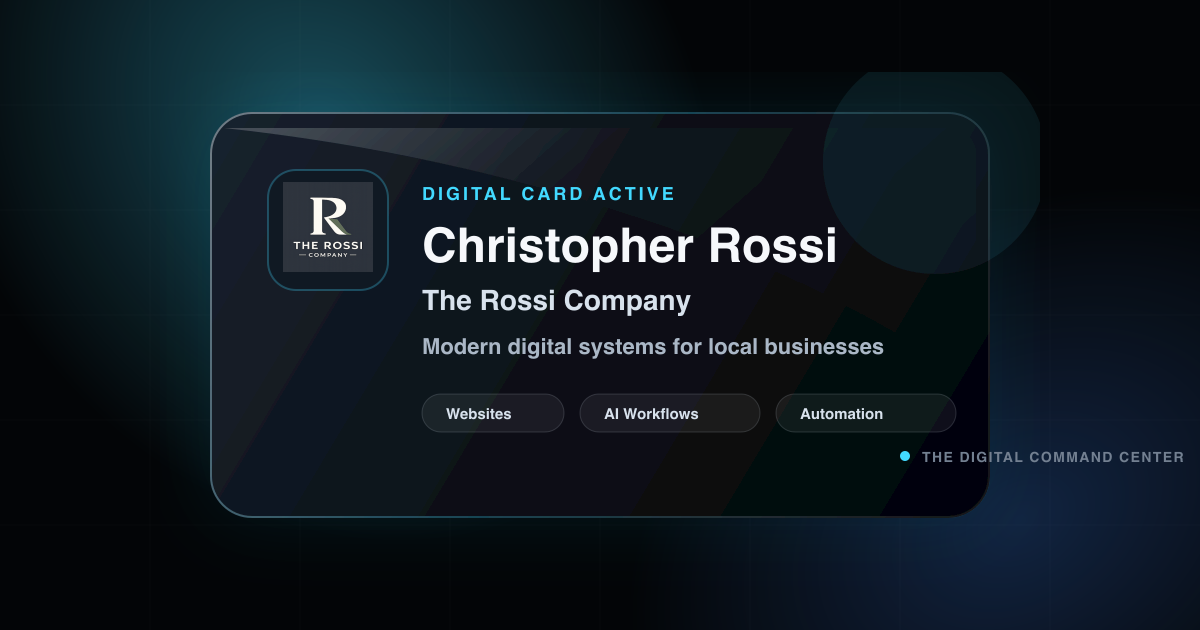
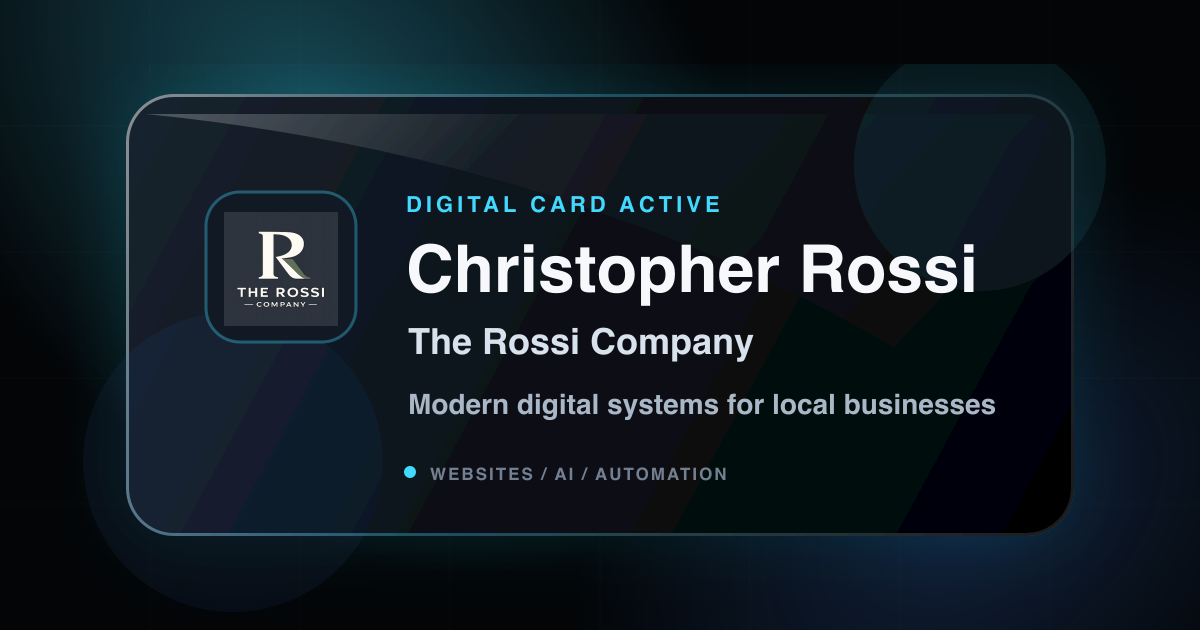
Optimize digital card social preview

Changed region(s): [[0.0925, 0.1206, 0.925, 0.573], [0.0925, 0.5127, 0.9867, 0.8746], [0.3392, 0.7238, 0.6167, 0.7841]]

diff --git a/index.html b/index.html
@@ -16,10 +16,10 @@
     />
     <meta property="og:type" content="website" />
     <meta property="og:url" content="https://www.therossicompany.com/" />
-    <meta property="og:image" content="https://www.therossicompany.com/social-card.png?v=2" />
+    <meta property="og:image" content="https://www.therossicompany.com/social-card.png?v=3" />
     <meta
       property="og:image:secure_url"
-      content="https://www.therossicompany.com/social-card.png?v=2"
+      content="https://www.therossicompany.com/social-card.png?v=3"
     />
     <meta property="og:image:type" content="image/png" />
     <meta property="og:image:width" content="1200" />
@@ -30,7 +30,7 @@
       name="twitter:description"
       content="Modern websites, AI-assisted workflows, automation, dashboards, and digital systems for local businesses."
     />
-    <meta name="twitter:image" content="https://www.therossicompany.com/social-card.png?v=2" />
+    <meta name="twitter:image" content="https://www.therossicompany.com/social-card.png?v=3" />
     <title>Christopher Rossi — The Rossi Company</title>
   </head>
   <body>
